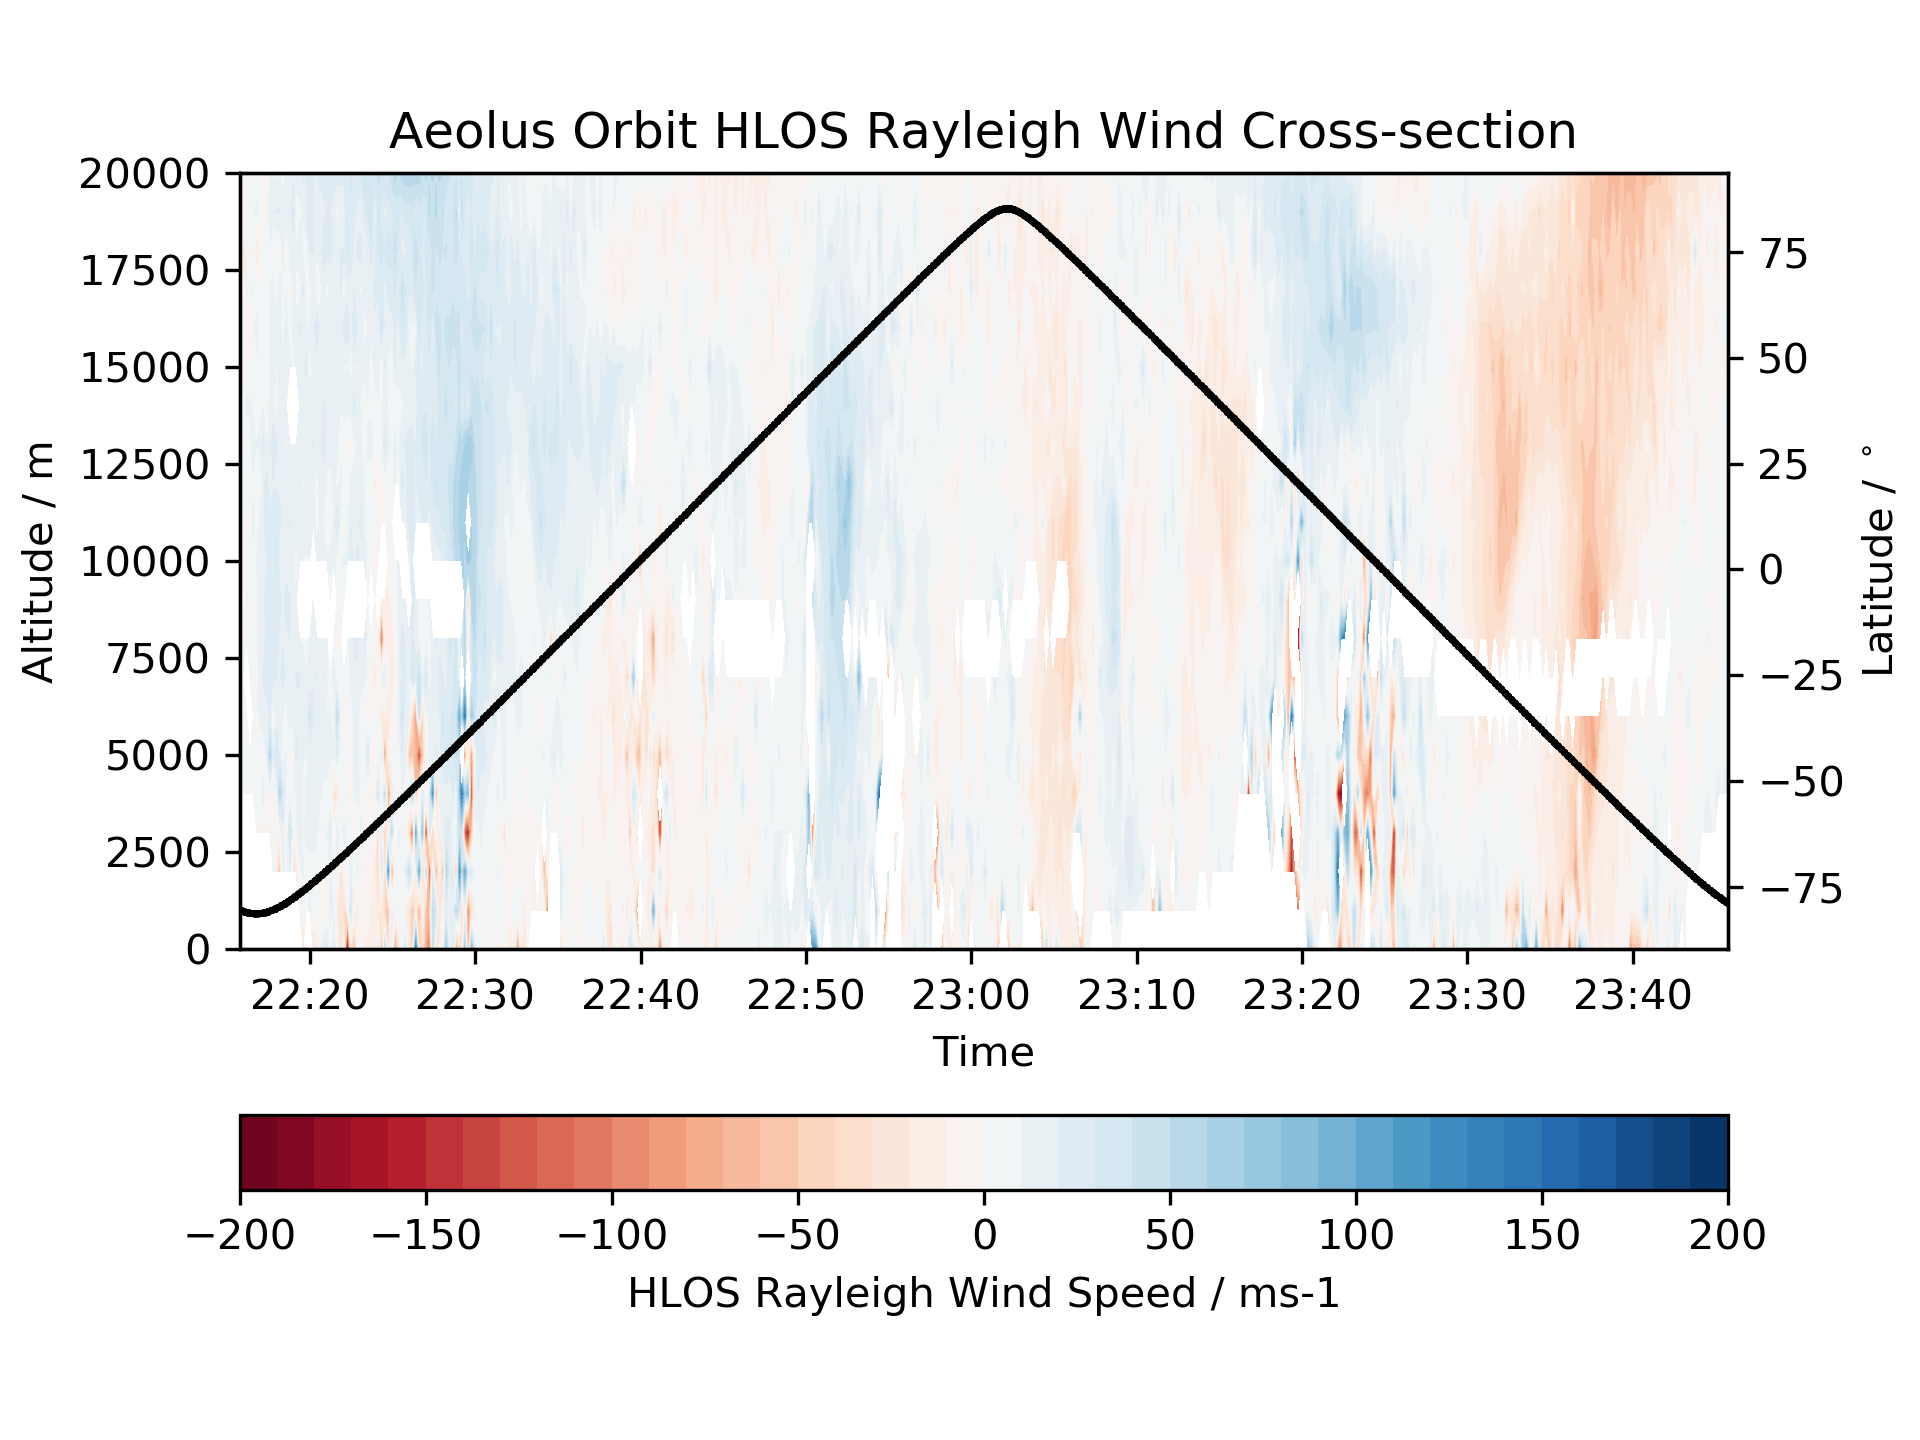
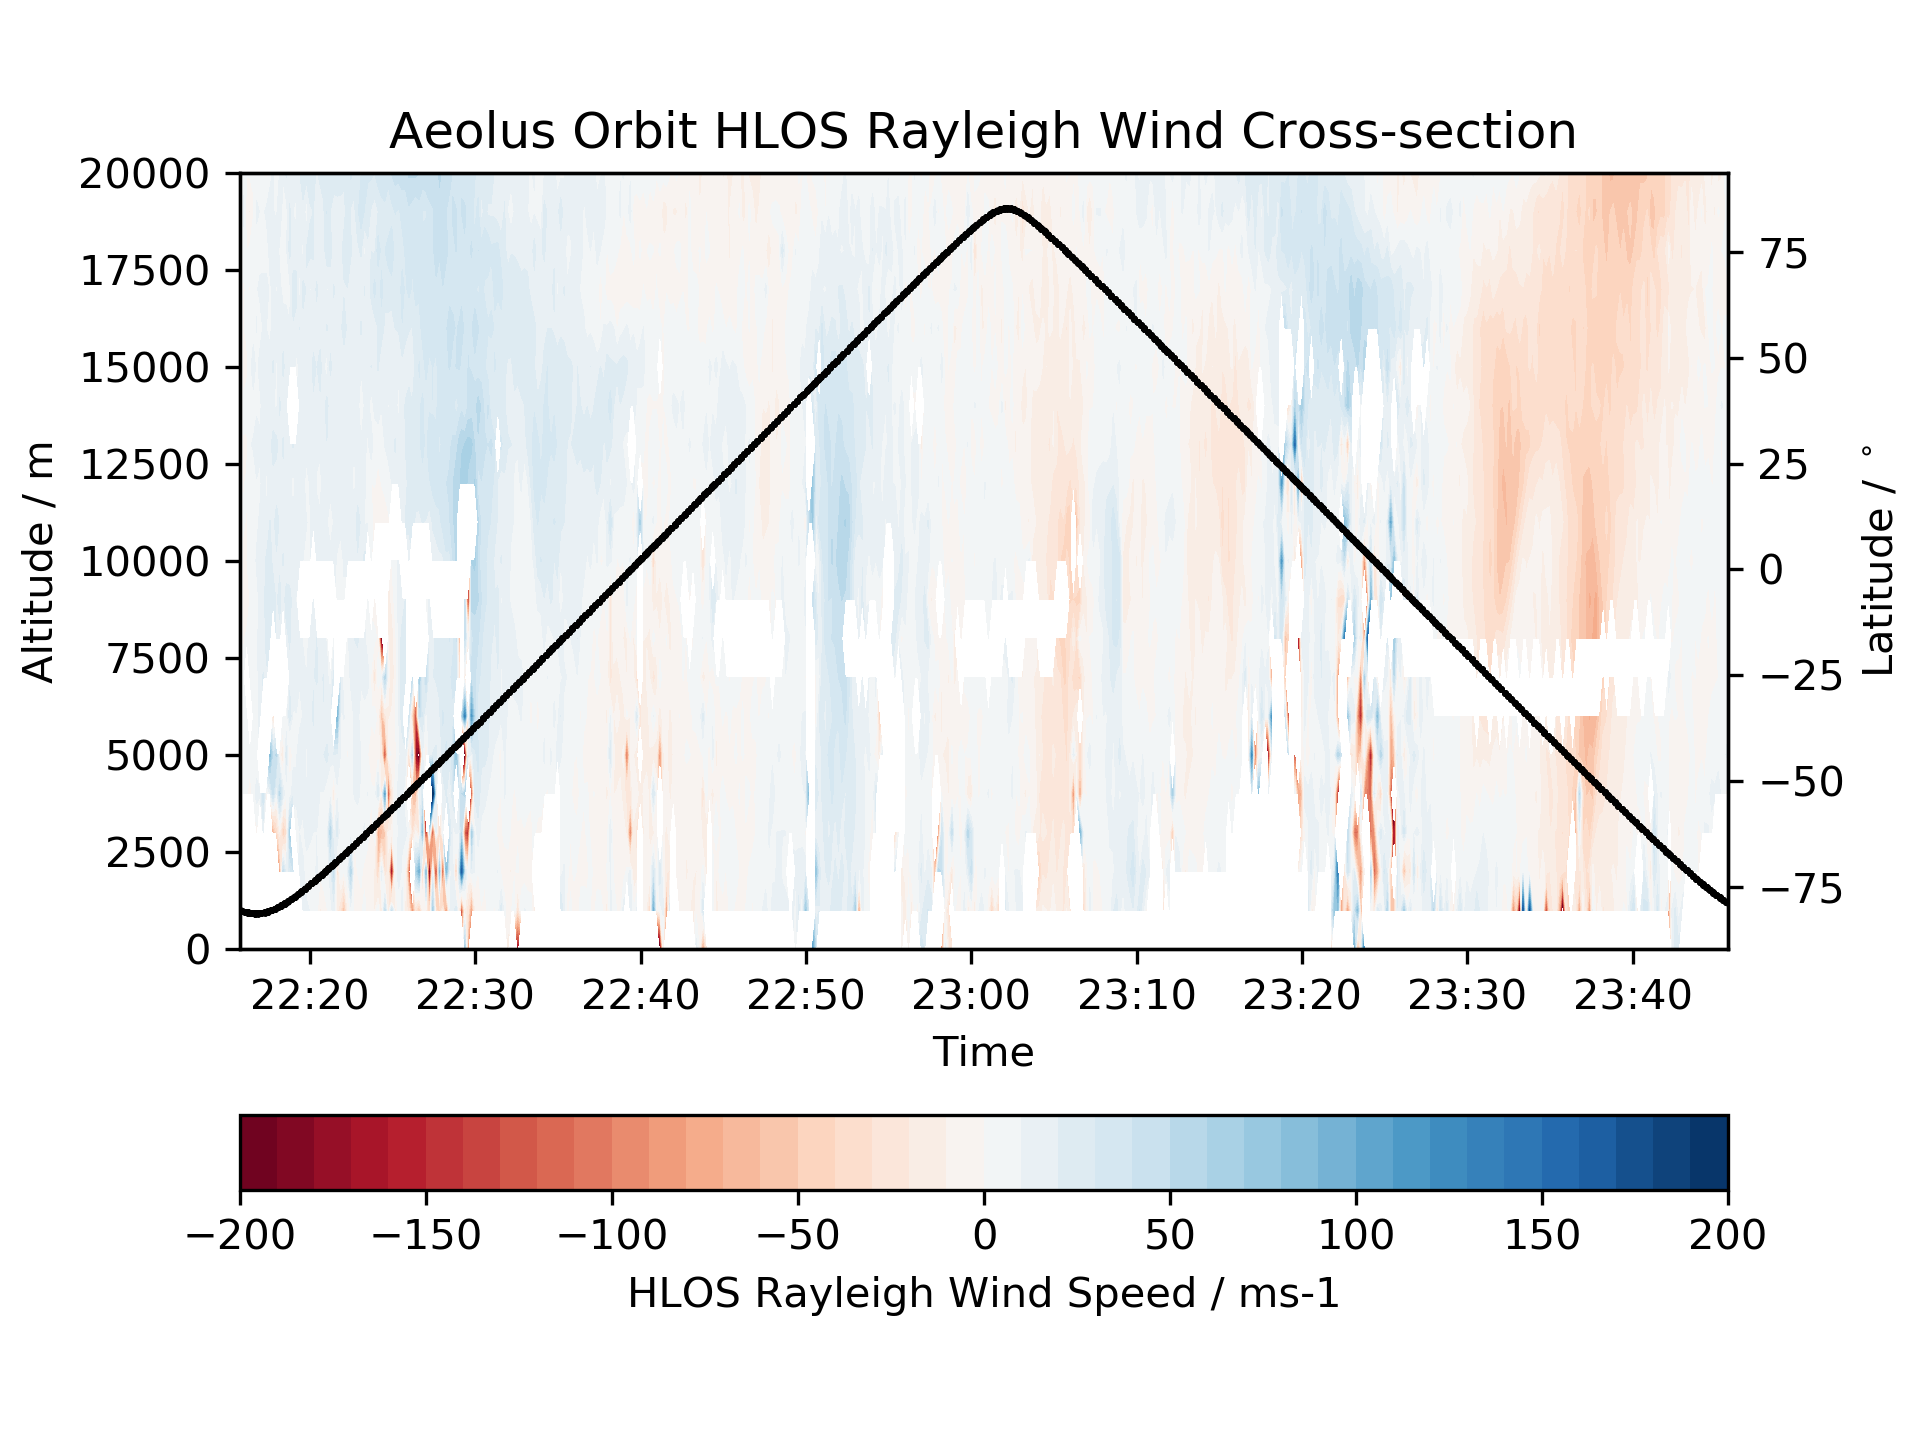
23.1.20 Commit

diff --git a/Programs/Aeolus_.py/Aeolus_testscans_v1.3_andesfocus.py b/Programs/Aeolus_.py/Aeolus_testscans_v1.3_andesfocus.py
@@ -233,28 +233,29 @@ rayleigh_lats = []
 rayleigh_lons = []
 rayleigh_wvs = []
 
-# ~ for j in range(len(mie_date_time)):
-	# ~ observation_type = Mie_HLOS_Wind[j][2][1]
-	# ~ validity_flag = Mie_HLOS_Wind[j][2][2]
-	# ~ if observation_type == 1: # i.e. cloudy
-		# ~ if validity_flag == 1:
-			# ~ mie_times.append(mie_date_time[j])
-			# ~ mie_alts.append(mie_altitude[j])
-			# ~ mie_lats.append(mie_latitude[j])
-			# ~ mie_lons.append(mie_longitude[j])
-			# ~ mie_wvs.append(mie_wind_velocity[j])
+for j in range(len(mie_date_time)):
+	observation_type = Mie_HLOS_Wind[j][2][1]
+	validity_flag = Mie_HLOS_Wind[j][2][2]
+	if observation_type == 1: # i.e. cloudy
+		if validity_flag == 1:
+			mie_times.append(mie_date_time[j])
+			mie_alts.append(mie_altitude[j])
+			mie_lats.append(mie_latitude[j])
+			mie_lons.append(mie_longitude[j])
+			mie_wvs.append(mie_wind_velocity[j])
 			
-# ~ for k in range(len(rayleigh_date_time)):
-	# ~ observation_type = Rayleigh_HLOS_Wind[k][2][1]
-	# ~ validity_flag = Rayleigh_HLOS_Wind[k][2][2]
-	# ~ if observation_type == 2: # i.e. clear
-		# ~ if validity_flag == 1:
-			# ~ rayleigh_times.append(rayleigh_date_time[k])
-			# ~ rayleigh_alts.append(rayleigh_altitude[k])
-			# ~ rayleigh_lats.append(rayleigh_latitude[k])
-			# ~ rayleigh_lons.append(rayleigh_longitude[k])
-			# ~ rayleigh_wvs.append(rayleigh_wind_velocity[k])
-		
+for k in range(len(rayleigh_date_time)):
+	observation_type = Rayleigh_HLOS_Wind[k][2][1]
+	validity_flag = Rayleigh_HLOS_Wind[k][2][2]
+	if observation_type == 2: # i.e. clear
+		if validity_flag == 1:
+			rayleigh_times.append(rayleigh_date_time[k])
+			rayleigh_alts.append(rayleigh_altitude[k])
+			rayleigh_lats.append(rayleigh_latitude[k])
+			rayleigh_lons.append(rayleigh_longitude[k])
+			rayleigh_wvs.append(rayleigh_wind_velocity[k])
+
+# Comment out the 10 lines below to apply validity flags and cloudy/clear filter
 mie_times = mie_date_time
 mie_alts = mie_altitude
 mie_lats = mie_latitude
@@ -352,7 +353,7 @@ ax2.set_ylabel('Latitude / $^\circ$')
 plt.title('Aeolus Orbit HLOS Rayleigh Wind Cross-section')
 fig.colorbar(cs, cmap='RdBu', ax=ax1, orientation='horizontal', label='HLOS Rayleigh Wind Speed / ms-1')
 # ~ plt.legend(loc=9)
-plt.savefig('test828.png',dpi=300)
+plt.savefig('test829.png',dpi=300)
 
 """
 X1 = mie_times[860:910]

diff --git a/Programs/Aeolus_.py/Aeolus_ncconvert.py b/Programs/Aeolus_.py/Aeolus_ncconvert.py
@@ -1,0 +1,71 @@
+#!/usr/bin/env python3
+"""
+Aeolus data conversion to netCDF format
+========================================================================
+------------------------------------------------------------------------
+---v1.0---Initial_File--------------------------------------------------
+----------[CURRENT]-This_is_the_current_version_of_this_file------------
+------------------------------------------------------------------------
+========================================================================
+Reads .DBL files downloaded from the Aeolus database and produces netCDF
+files of key parameters from the datasets
+========================================================================
+"""
+
+# Imports
+import netCDF4 as nc
+import numpy as np
+import os 
+import errno
+import multiprocessing
+from datetime import timedelta, datetime
+import time
+
+# Import from functions file
+import sys
+sys.path.append('/home/tpb38/PhD/Bath/Aeolus_Project/Programs/')
+from functions import createAeolusnc
+
+# Change current working directory to parent directory
+os.chdir('..')
+
+def eachset(SS):
+	"""
+	This function...
+	"""
+	# Aeolus directory
+	parent = '/home/tpb38/PhD/Bath/Aeolus/'
+	# NetCDF file save directory
+	nc_dir = 'NC/'
+	
+	directory = parent + 'DBL/'
+	directory = os.fsencode(directory)		
+	for file in os.listdir(directory):
+		# Program Timing (Time taken to get through one file)	
+		startTime = datetime.now()
+		
+		# Setting filename for dataload
+		filename = os.fsdecode(file)
+		print(str(filename), '\n')
+		
+	
+	sub = nc_dir + 'example'
+	outfile = parent + sub
+	creataeolusnc(outfile, rayleigh_time, rayleigh_alt, rayleigh_lat,
+	rayleigh_lon, rayleigh_wind)
+
+if __name__ == '__main__':
+	"""Enables program to be executed using multiple processes/cores"""
+	startTime = datetime.now()
+	processes = []
+	for YYYY in range(1994,2021):
+		p = multiprocessing.Process(target=eachyear, args=(YYYY,))
+		processes.append(p)
+		p.start()
+			
+	for process in processes:
+		process.join()
+	
+	# Time taken for the entire program
+	duration = datetime.now() - startTime
+	print('That took ', duration, ' seconds')

diff --git a/Programs/functions.py b/Programs/functions.py
@@ -344,3 +344,47 @@ def load_dbl_tags(dbl):
 	AMD_Product_Confid_Data, Meas_Product_Confid_Data, Mie_Wind_Prod_Conf_Data, \
 	Rayleigh_Wind_Prod_Conf_Data, Mie_HLOS_Wind, Rayleigh_HLOS_Wind, Mie_Profile, \
 	Rayleigh_Profile
+
+def createAeolusnc(outfile, rayleigh_time, rayleigh_alt, rayleigh_lat,
+	rayleigh_lon, rayleigh_wind):
+	
+	# Generate time_units string for .nc file using datetime.datetime array to
+	# midnight on the day of the first time element
+	time_units = "seconds since " + str(IAGOS_data_time[0])[0:10] + " 00:00:00"
+	
+	# Creating netCDF file
+	root = nc.Dataset(outfile, 'w', format = "NETCDF4")
+	root.contact = "T. P. Banyard, tpb38@bath.ac.uk"
+	root.institution = \
+	"University of Bath, Claverton Down, Bath, BA2 7AY, United Kingdom"
+	root.title = "Aeolus HLOS Rayleigh Wind Data"
+	root.Aeolus_data_source = "https://aeolus-ds.eo.esa.int"
+	dim_time = root.createDimension("time", len(rayleigh_time))
+	var_time = root.createVariable("time", "f8", ("time",))
+	var_time.standard_name = "time"
+	var_time.long_name = "time"
+	var_time.units = time_units
+	var_lon = root.createVariable("lon", "f8", ("time",))
+	var_lon.standard_name = "longitude"
+	var_lon.long_name = "Longitude"
+	var_lon.units = "degree_east"
+	var_lat = root.createVariable("lat", "f8", ("time",))
+	var_lat.standard_name = "latitude"
+	var_lat.long_name = "Latitude"
+	var_lat.units = "degree_north"
+	var_alt = root.createVariable("alt", "f8", ("time",))
+	var_alt.standard_name = "altitude"
+	var_alt.long_name = "Altitude"
+	var_alt.units = "m"
+	var_wind = root.createVariable("HLOS_wind_speed", "f8", ("time",))
+	var_wind.standard_name = "wind_speed"
+	var_wind.long_name = "Horizontal_Line_of_Sight_Wind speed"
+	var_wind.units = "m s-1"
+	
+	var_time[:] = \
+	nc.date2num(rayleigh_time, units = var_time.units, calendar = 'standard')
+	var_lon[:], var_lat[:],	var_alt[:], var_wind[:] = rayleigh_lon, \
+	rayleigh_lat, rayleigh_alt, rayleigh_wind
+	
+	print("Created file of type: ", root.data_model)
+	root.close()
